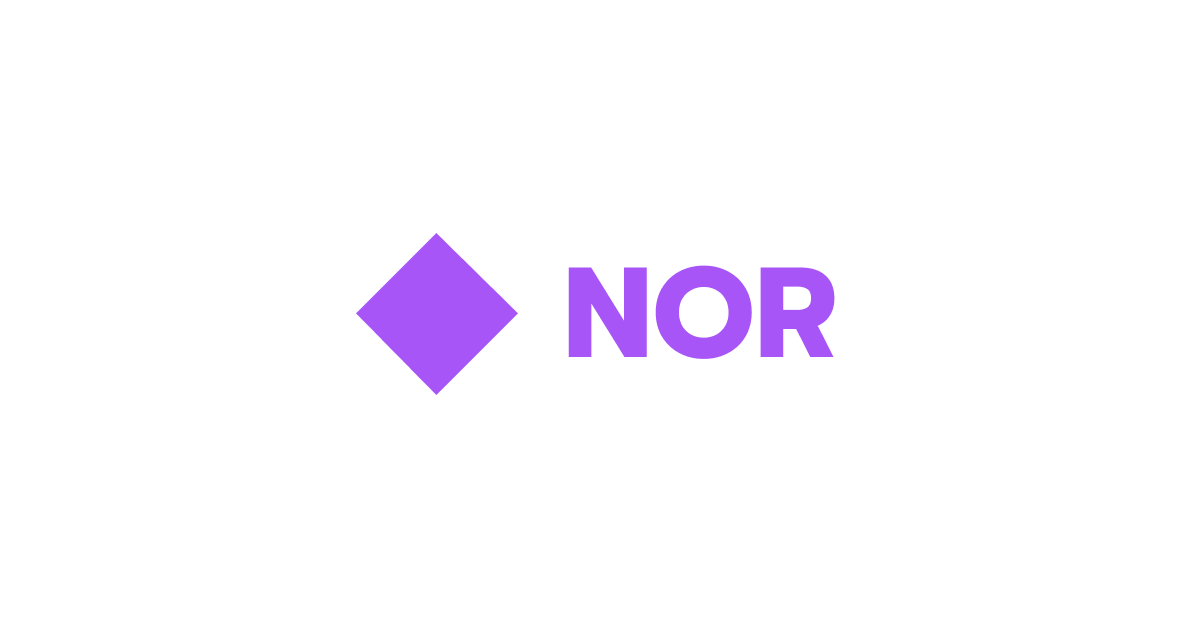
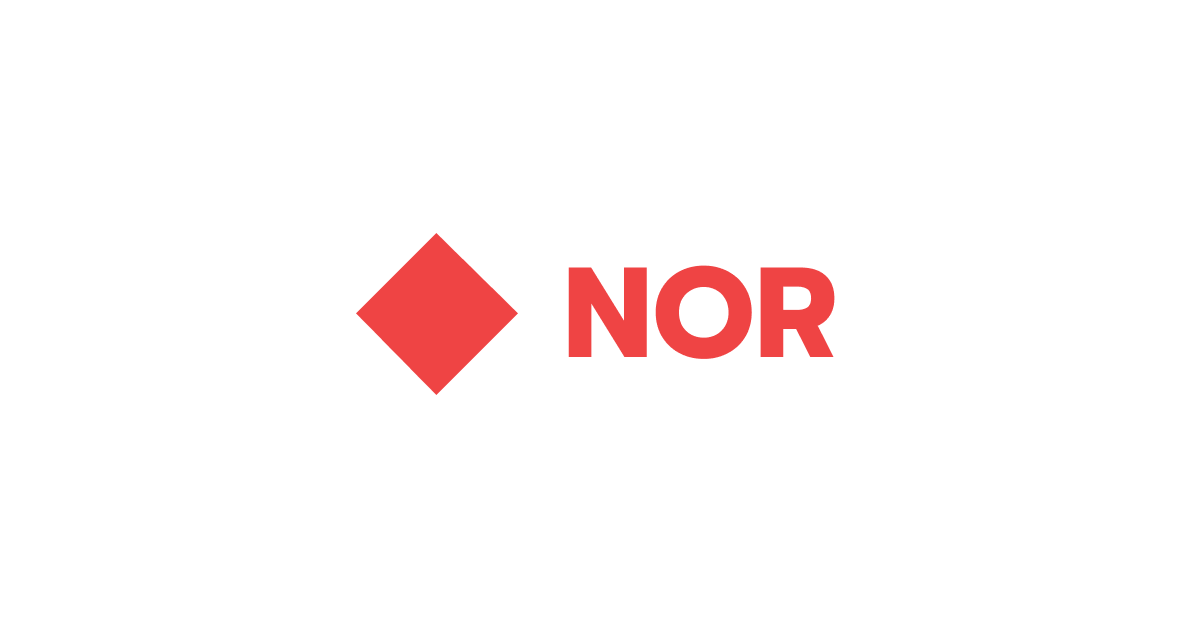
💄 : NOR is red not purple

Changed region(s): [[0.4625, 0.4236, 0.7092, 0.5748], [0.2775, 0.3631, 0.4317, 0.6354]]

diff --git a/src/lib/components/Stage1.svelte b/src/lib/components/Stage1.svelte
@@ -18,11 +18,11 @@
 			d: 'M50,0 L100,100 L0,100 L50,0 Z'
 		},
 		circle: {
-			color: '#ef4444',
+			color: '#a855f7',
 			d: 'm50,0 a50,50,0,0,0,0,100 a-50,-50,0,0,0,0,-100 z'
 		},
 		diamond: {
-			color: '#a855f7',
+			color: '#ef4444',
 			d: 'M50,0 L100,50 L50,100 L0,50 L50,0 Z'
 		}
 	};
@@ -107,12 +107,12 @@
 			<span
 				class={`text-3xl font-bold ${
 					target === 'NOT'
-						? 'text-red-500'
+						? 'text-purple-500'
 						: target === 'OR'
 						? 'text-green-500'
 						: target === 'AND'
 						? 'text-blue-500'
-						: 'text-purple-500'
+						: 'text-red-500'
 				}`}
 			>
 				{target}

diff --git a/src/routes/[gate]/+page.svelte b/src/routes/[gate]/+page.svelte
@@ -14,11 +14,11 @@
 			d: 'M50,0 L100,100 L0,100 L50,0 Z'
 		},
 		circle: {
-			color: '#ef4444',
+			color: '#a855f7',
 			d: 'm50,0 a50,50,0,0,0,0,100 a-50,-50,0,0,0,0,-100 z'
 		},
 		diamond: {
-			color: '#a855f7',
+			color: '#ef4444',
 			d: 'M50,0 L100,50 L50,100 L0,50 L50,0 Z'
 		}
 	};
@@ -33,11 +33,11 @@
 			path: paths.triangle
 		},
 		NOT: {
-			color: 'text-red-500',
+			color: 'text-purple-500',
 			path: paths.circle
 		},
 		NOR: {
-			color: 'text-purple-500',
+			color: 'text-red-500',
 			path: paths.diamond
 		}
 	};

diff --git a/src/routes/+page.svelte b/src/routes/+page.svelte
@@ -28,11 +28,11 @@
 			d: 'M50,0 L100,100 L0,100 L50,0 Z'
 		},
 		circle: {
-			color: '#ef4444',
+			color: '#a855f7',
 			d: 'm50,0 a50,50,0,0,0,0,100 a-50,-50,0,0,0,0,-100 z'
 		},
 		diamond: {
-			color: '#a855f7',
+			color: '#ef4444',
 			d: 'M50,0 L100,50 L50,100 L0,50 L50,0 Z'
 		}
 	};
